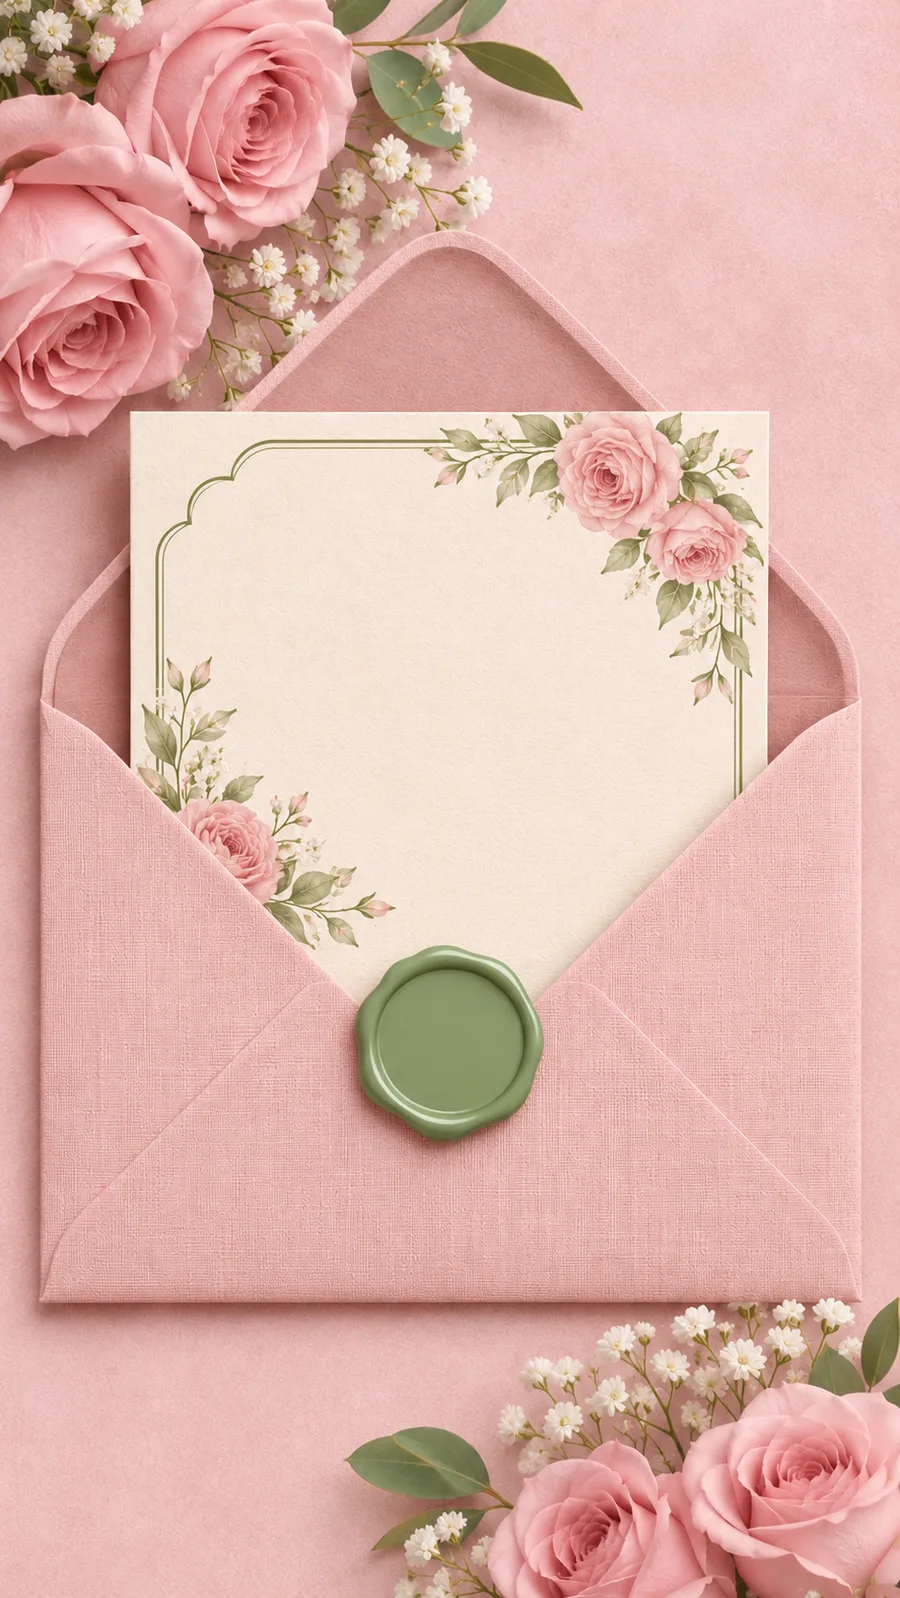
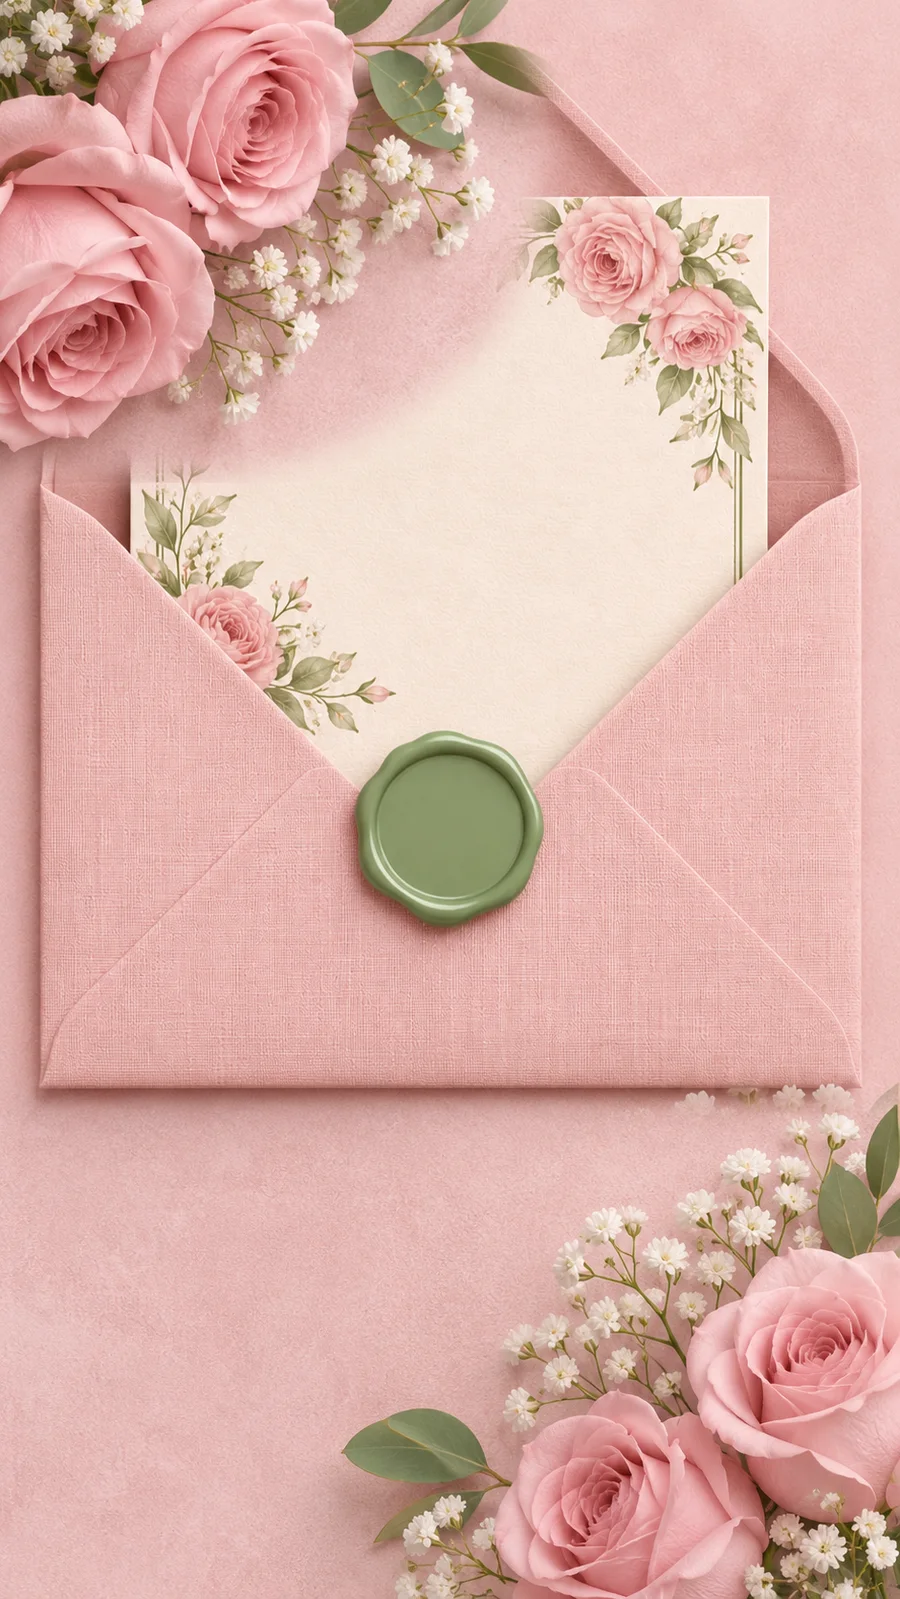
Rose Veil: align open envelope with the closed one, single seal, card rises from the pocket
Claude-Session: https://claude.ai/code/session_019MLubjFaYK5fesoVktBenD

diff --git a/rose-veil/index.html b/rose-veil/index.html
@@ -39,14 +39,14 @@ html[lang=en] #lg{font:500 17px var(--ar)}
 .stage{position:absolute;left:50%;top:50%;width:max(100vw,calc(100svh*.5628));aspect-ratio:941/1672;transform:translate(-50%,-50%);container-type:inline-size}
 .stage>img{position:absolute;inset:0;width:100%;height:100%;display:block;user-select:none;-webkit-user-drag:none}
 .e-open,.e-front{opacity:0;transition:opacity 1.6s ease}
-.e-front{z-index:5;clip-path:polygon(0 43.6%,50% 64.6%,100% 43.6%,100% 100%,0 100%)}
+.e-front{z-index:5;clip-path:polygon(0 30.6%,50% 48.6%,100% 30.6%,100% 100%,0 100%)}
 #gate.s2 .e-open,#gate.s2 .e-front{opacity:1}
 .seal{position:absolute;left:39.5%;top:46%;width:21cqw;height:21cqw;border-radius:50%;display:flex;align-items:center;justify-content:center;z-index:3;transition:opacity .5s ease,transform .6s ease}
 .seal svg{width:80%;height:80%;color:#768c5c;filter:drop-shadow(0 -.25cqw .1cqw rgba(40,55,25,.6)) drop-shadow(0 .3cqw .05cqw rgba(225,235,205,.7))}
 .seal::after{content:"";position:absolute;inset:-12%;border-radius:50%;border:.5cqw solid rgba(255,255,255,.85);animation:ring 2.2s ease-out infinite}
 @keyframes ring{from{transform:scale(.85);opacity:.9}to{transform:scale(1.35);opacity:0}}
 .seal{transition:opacity .9s ease,transform 1s ease}
-#gate.s1 .seal{opacity:0;transform:scale(1.18);animation:none}#gate.s1 .seal::after{animation:none;opacity:0}
+.seal{z-index:6}#gate.s1 .seal::after{animation:none;opacity:0}#gate.s5 .seal{opacity:0}
 .g-names{position:absolute;left:8%;right:8%;top:56%;text-align:center;z-index:3;transition:opacity .5s}
 .g-names .nm{font:400 10cqw/1.25 var(--scr);color:#5c6a3c;white-space:nowrap;text-shadow:0 0 1.5cqw rgba(255,240,236,.9)}
 html[lang=ar] .g-names .nm{font:400 9cqw/1.5 var(--ruq)}
@@ -55,12 +55,12 @@ html[lang=ar] .g-names .nm{font:400 9cqw/1.5 var(--ruq)}
 html[lang=ar] .tap{font:500 4.6cqw var(--ar)}
 @keyframes pulse{50%{opacity:.55}}
 #gate.s1 .g-names,#gate.s1 .tap{opacity:0;animation:none}
-.e-card{position:absolute;z-index:4;left:14.6%;top:25.7%;width:70.7%;aspect-ratio:1024/1536;opacity:0;
+.e-card{position:absolute;z-index:4;left:14.35%;top:12.3%;width:70.7%;aspect-ratio:1024/1536;opacity:0;
   background:url(img/card.webp) center/100% 100%;border-radius:.6cqw;box-shadow:0 2cqw 6cqw rgba(110,60,55,.28);
   transform-origin:50% 40%;transition:opacity .6s ease,transform 2.4s cubic-bezier(.45,.05,.3,1);container-type:inline-size;transform:none}
 #gate.s3 .e-card{opacity:1;transition:opacity .7s ease,transform 2.4s cubic-bezier(.45,.05,.3,1)}
-#gate.s4 .e-card{transform:translateY(-40%)}
-#gate.s5 .e-card{z-index:6;transform:translateY(-11%) scale(1.14);transition:transform 1.6s cubic-bezier(.25,.8,.25,1)}
+#gate.s4 .e-card{transform:translateY(-22%)}
+#gate.s5 .e-card{z-index:7;transform:translateY(8%) scale(1.14);transition:transform 1.6s cubic-bezier(.25,.8,.25,1)}
 #gate.s5 .e-front,#gate.s5 .e-open,#gate.s5 .e-closed{opacity:.0;transition:opacity 1.4s ease}
 #gate.s5{background:#f6d5cf}
 .e-card .in{position:absolute;left:12%;right:12%;top:20%;bottom:20%;display:flex;flex-direction:column;align-items:center;justify-content:center;text-align:center;color:var(--ol2)}
